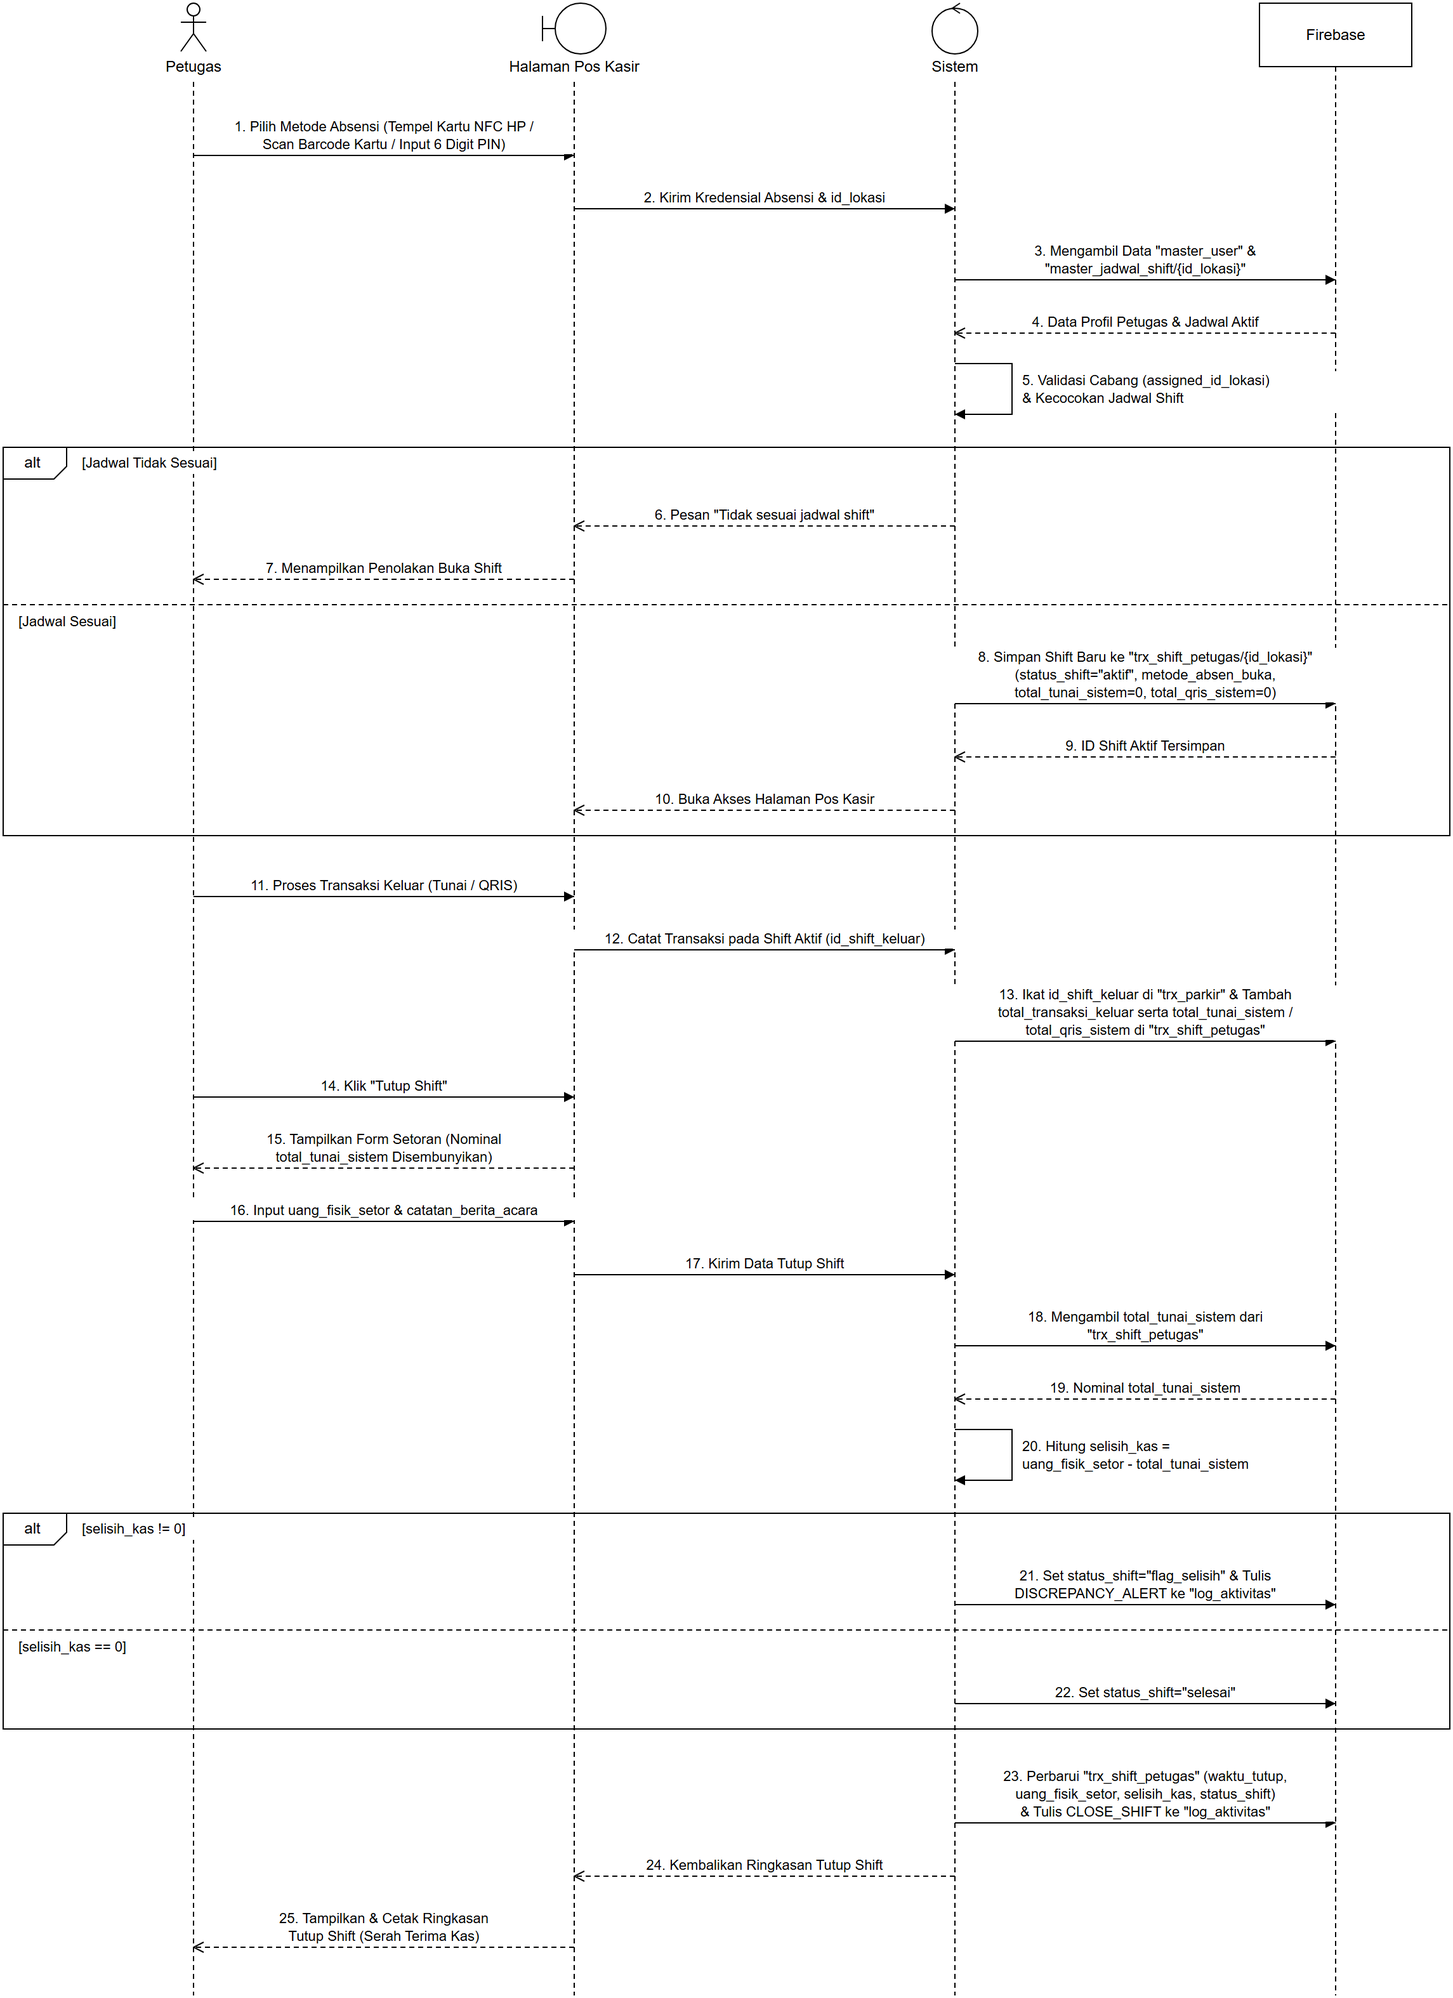
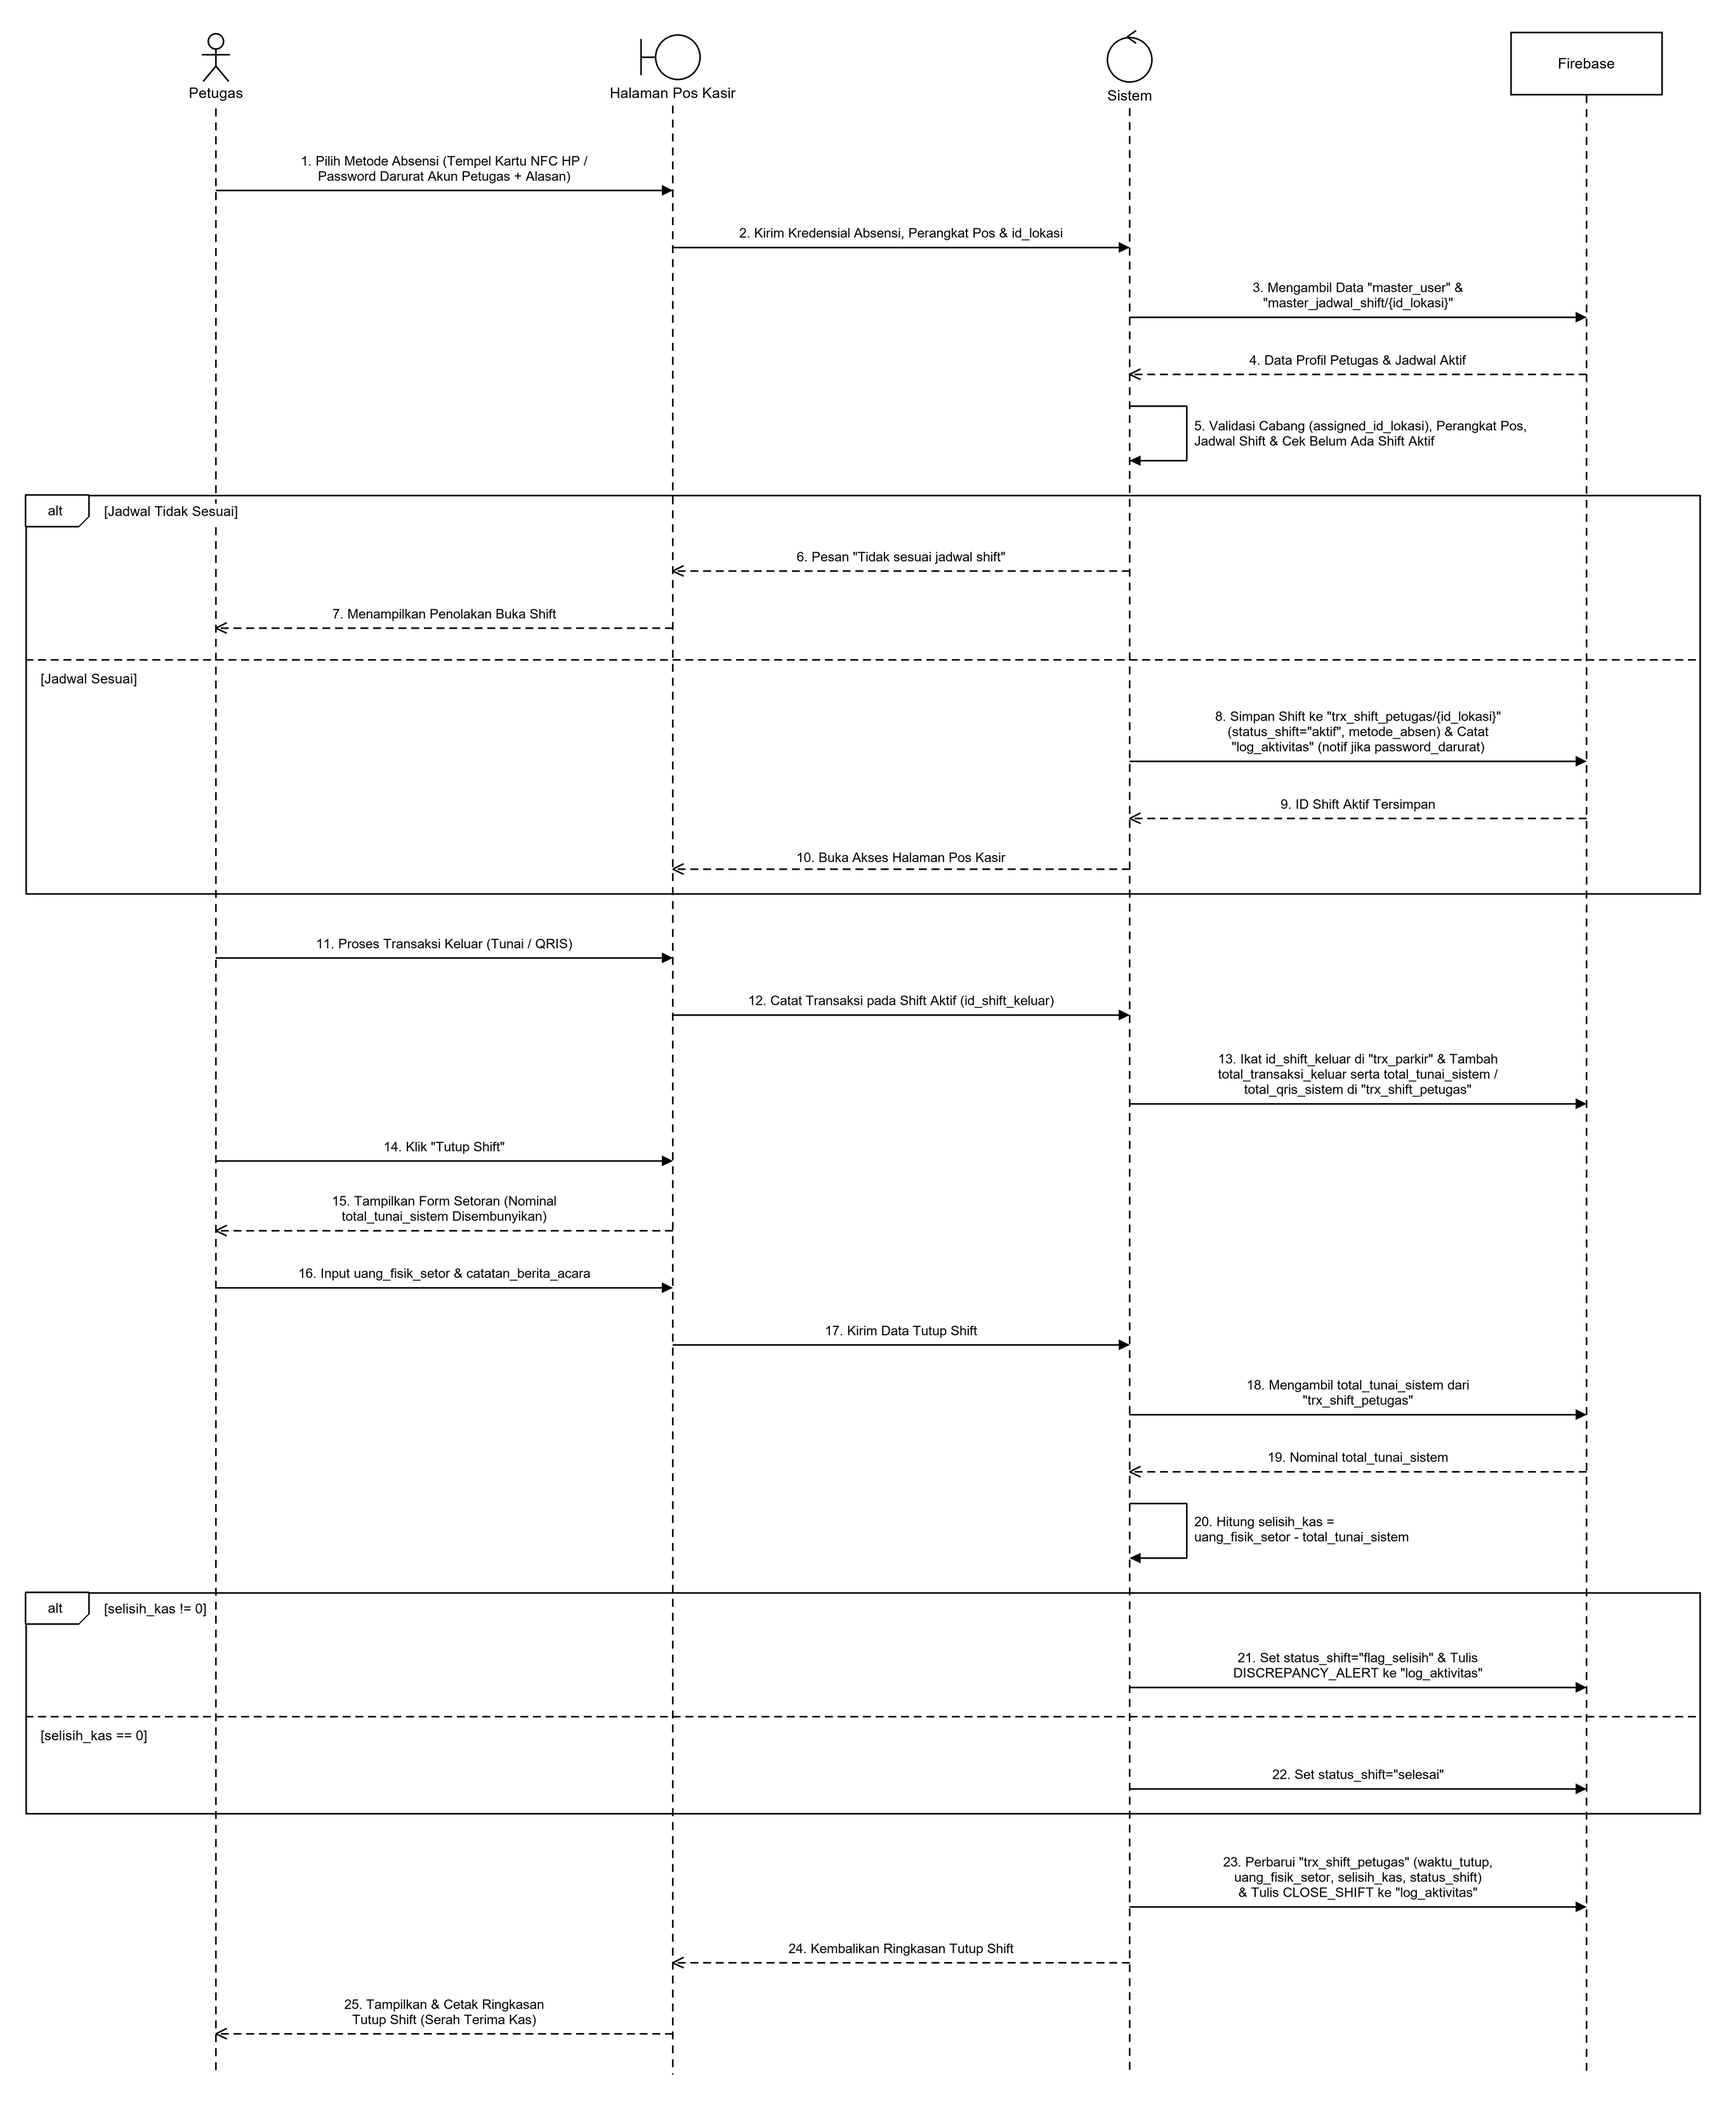
revisi sequence buka tutup shift kasir opsi b sama dark mode drawio

diff --git a/docs/PROGRESS.md b/docs/PROGRESS.md
@@ -30,8 +30,8 @@ Dokumen ini memantau status pengerjaan setiap butir revisi hasil sidang Quality 
 | No | Nama Diagram | Status PNG | Status .drawio | Status ACC Pengguna | Keterangan |
 | :---: | :--- | :---: | :---: | :---: | :--- |
 | **1** | `Diagram ParkSpot UKK-DFD LEVEL 0 (Revisi)` | 🟢 Selesai | 🟢 Selesai | 🟢 Di-ACC | 5 entitas persis asli, Opsi B NFC/Password Darurat, ekspor PDF/Excel, Auditor v2 PASS |
-| **2** | `Diagram ParkSpot UKK-Activity Buka & Tutup Shift Kasir` | 🟢 Selesai | 🟢 Selesai | 🟡 **Menunggu Review/ACC** | 2 cabang Opsi B (NFC HP & Password Darurat), hapus Barcode & PIN, Auditor v2 PASS |
-| **3** | `Diagram ParkSpot UKK-Sequence Buka & Tutup Shift Kasir` | 🟡 Revisi Opsi B | 🟡 Revisi Opsi B | 🔴 Antre Revisi | Hapus Barcode & PIN $\rightarrow$ NFC & Password Darurat (Opsi B) |
+| **2** | `Diagram ParkSpot UKK-Activity Buka & Tutup Shift Kasir` | 🟢 Selesai | 🟢 Selesai | 🟢 Di-ACC | 2 cabang Opsi B (NFC HP & Password Darurat), hapus Barcode & PIN, Auditor v2 PASS |
+| **3** | `Diagram ParkSpot UKK-Sequence Buka & Tutup Shift Kasir` | 🟢 Selesai | 🟢 Selesai | 🟡 **Menunggu Review/ACC** | Opsi B NFC/Password Darurat, 0 PIN/Barcode, Dark Mode friendly, Auditor v2 PASS |
 | **4** | `Diagram ParkSpot UKK-Activity CRUD Area & Slot (Revisi)` | 🟢 Selesai | 🟢 Selesai | 🟢 Di-ACC | Struktur 3 cabang `Pilih Aksi?` persis milik pengguna, XML bersih & sinkron |
 | **5** | `Diagram ParkSpot UKK-Sequence CRUD Area & Slot (Revisi)` | 🟢 Selesai | 🟢 Selesai | 🟡 **Menunggu Review/ACC** | 4 lifeline, validasi maks 12 slot/zona (alt), XML bersih & sinkron |
 | **6** | `Diagram ParkSpot UKK-Activity CRUD Data Kendaraan (Revisi)` | 🟡 Draft Siap | 🔴 Belum | 🔴 Antre | Struktur 3 cabang (Tambah kode keluarga, edit, reset plat) |
